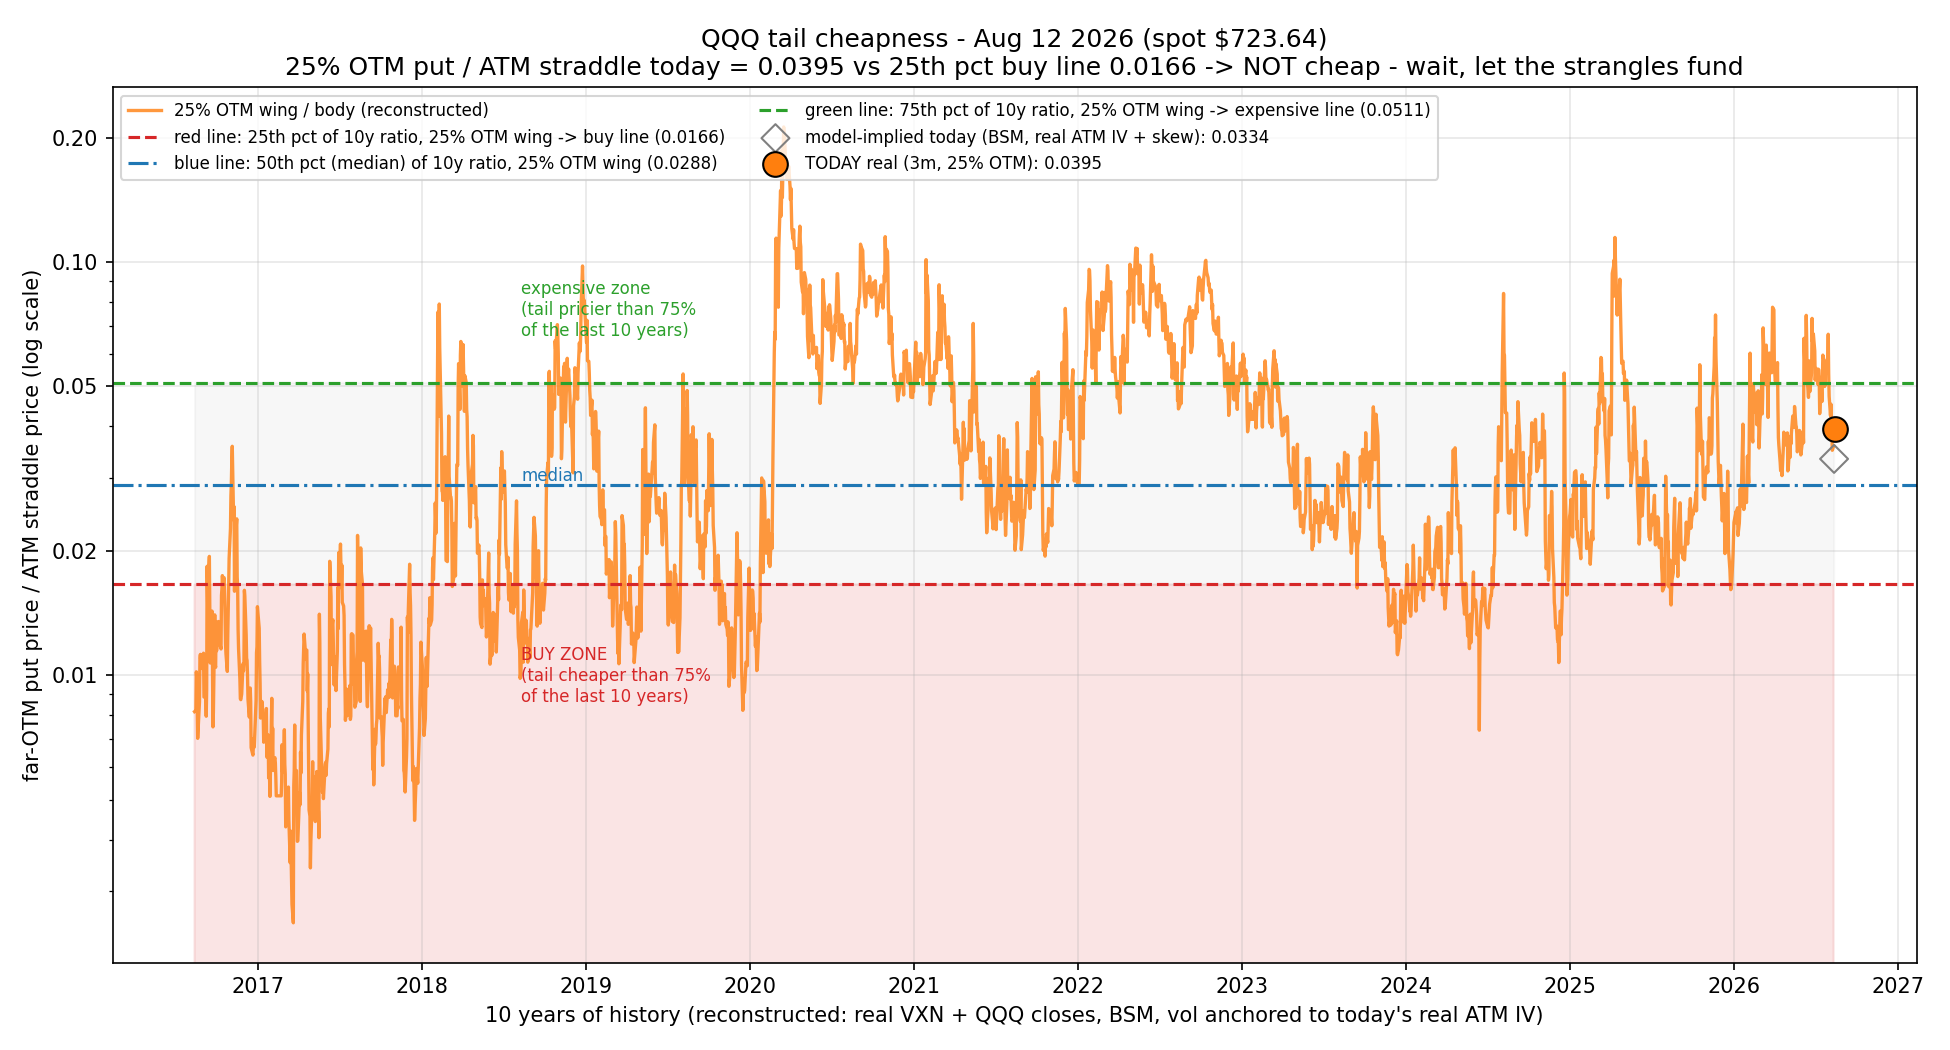
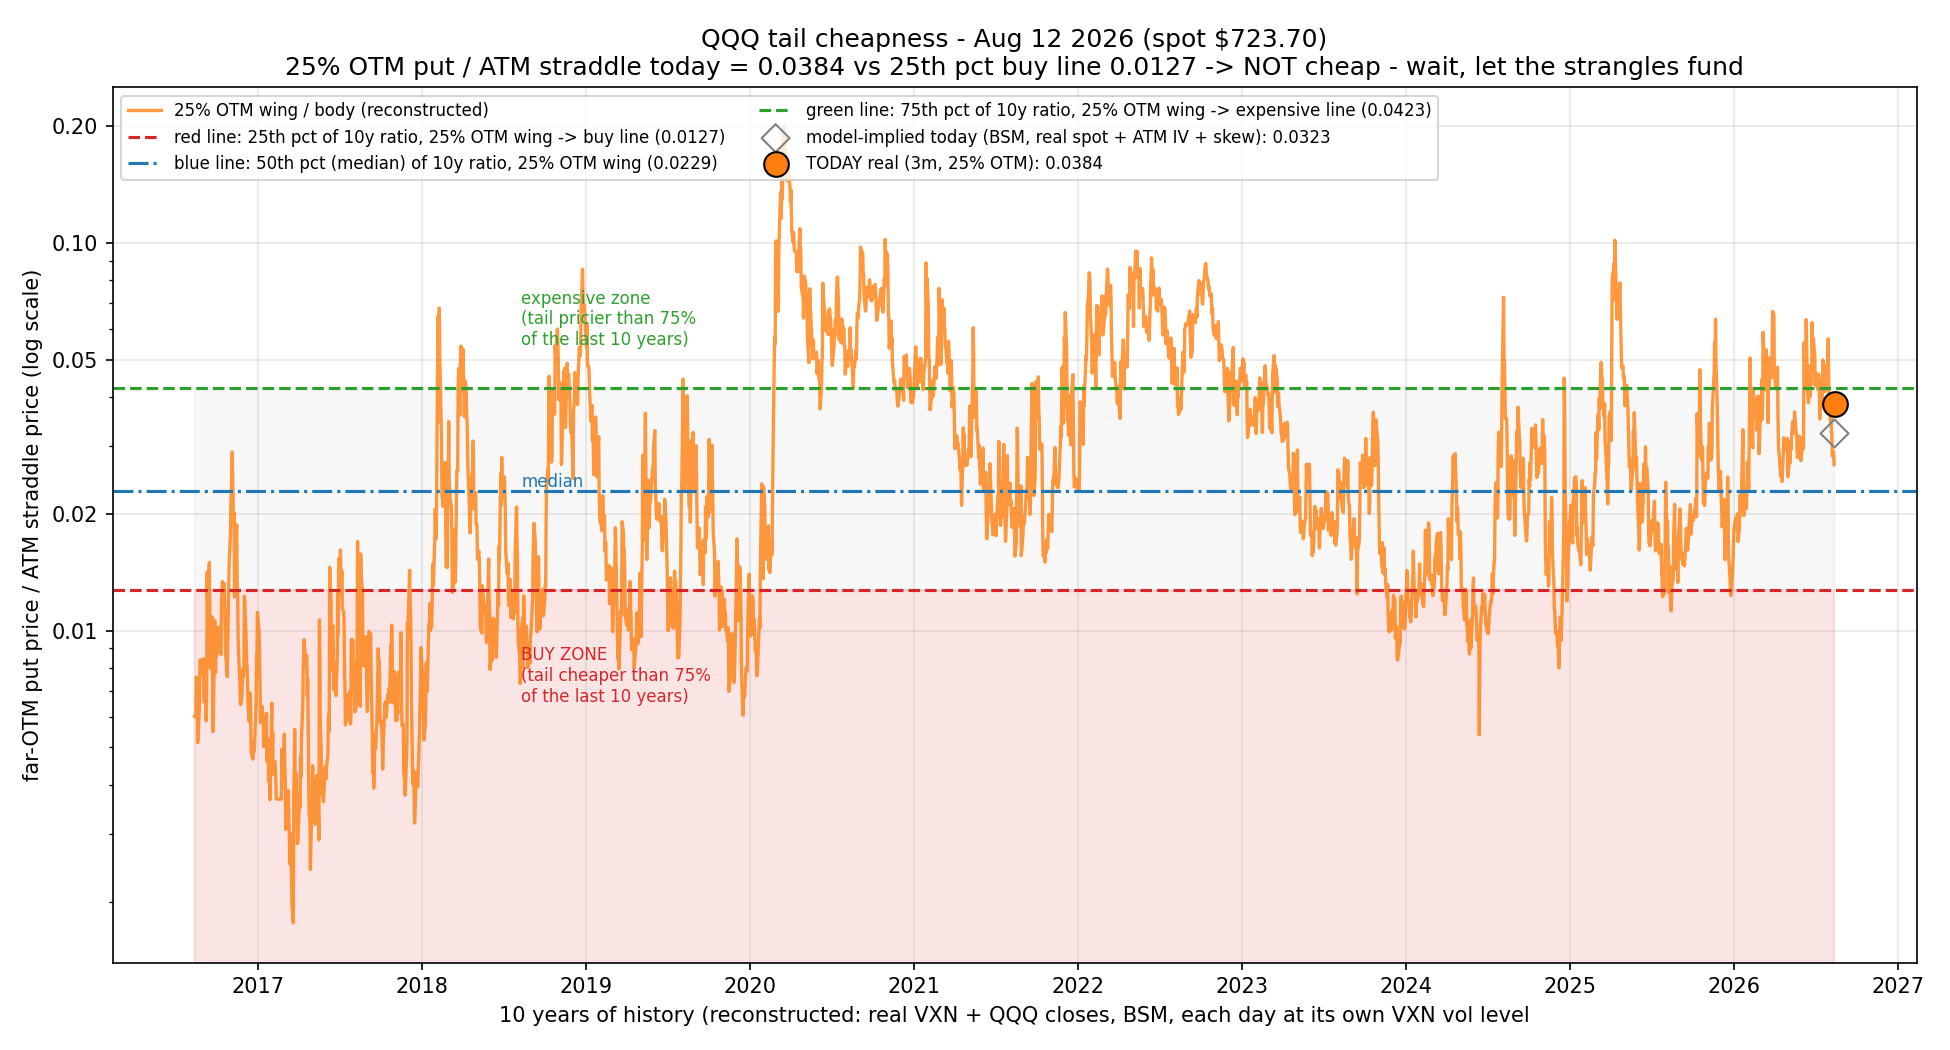
fux anchor circularirty

diff --git a/fentu/pricingservices/tail_plot.py b/fentu/pricingservices/tail_plot.py
@@ -13,17 +13,14 @@ Output: figures/tail_cheapness_<date>.png (named after today's date)
 
 Reconstruction assumptions (stated on the chart):
 - 10y history: wing/body ratio reconstructed from REAL VXN (Nasdaq-100 vol,
-  ^VXN) and REAL QQQ closes via BSM, with TODAY's real skew offsets held
-  constant and a flat term structure. The vol LEVEL is anchored to today's
-  real ATM IV (the market's vol premium) — NOT to today's wing ratio, so
-  today's real wing quote stays an independent, out-of-sample test point.
-- The tenor is the REAL option's actual calendar DTE (~90 days), so the
-  model prices the same maturity as the quotes it is compared against.
-- Today's dots: REAL mid-market quotes from the yfinance chain, compared
-  against the model-implied point at today's real ATM IV + skew offsets.
+  ^VXN) and REAL QQQ closes via BSM at EACH DAY's OWN VXN vol level,
+  with today's real skew offsets held constant and a flat term structure.
+- Today's dots: real mid-market quotes from the yfinance chain, compared
+against a model-implied point priced at today's real spot, ATM_IV and 
+skew offsets-the ONLY place today's vol level enters the chart.
 
-TOFIX:
-10year to 1999
+- TODO:
+historical span needs to extend from 10years to 1999
 """
 
 import logging
@@ -191,16 +188,16 @@ def historical_ratios(quotes, years=10):
     return ratios
 
 
-def wing_series(hist):
+def wing_series(ratios_by_maturity):
     """
     Every point is genuine history(each day's own VXN level)
     Today's real qutes stays out-of-sample by construction
     """
-    result = {
-        pct: [(d, r) for d, p_, r in hist["3m"] if p_ == pct and math.isfinite(r)]
-        for pct in WING_LEVELS
-    }
-    return result
+    series = {pct: [] for pct in WING_LEVELS}
+    for day, level, ratio in ratios_by_maturity["3m"]:
+        if level in series and math.isfinite(ratio):
+            series[level].append((day, ratio))
+    return series
 
 def model_today_ratio(quote):
     """model implied wing/body ratio at TODAY's real spot
@@ -227,7 +224,8 @@ def plot_tail_cheapness(save_path=None):
     quotes = fetch_today_quotes()
     _log_today_quotes(quotes)
     hist = historical_ratios(quotes)
-    series, model_today = split_terminal(hist)
+    series = wing_series(hist)
+    model_today = model_today_ratio(quotes["3m"])
     logger.info("series points per wing: %s", {pct: len(series[pct]) for pct in WING_LEVELS})
     today = date.today()
     save_path = save_path or _default_save_path(today)
@@ -275,7 +273,7 @@ def _default_save_path(today):
 
 def _log_decision(verdict, today_ratio, q25, model_today):
     logger.info(
-        "decision wing: q25 buy line=%.4f, model-implied today=%s, verdict=%s (today %.4f vs q25 %.4f)",
+        "decision wing: q25 buy line=%.4f, model-implied today=%.4f, verdict=%s (today %.4f vs q25 %.4f)",
         q25,
         model_today[DECISION_LEVEL],
         verdict,
@@ -331,16 +329,16 @@ def _plot_decision_annotations(ax, series):
 
 
 def _plot_today_marker(ax, today_ratio, model_today):
-    m_date, m_ratio = model_today[DECISION_LEVEL]
+    m_ratio = model_today[DECISION_LEVEL]
     ax.scatter(
-        [m_date],
+        [date.today()],
         [m_ratio],
         marker="D",
         s=90,
         facecolors="none",
         edgecolors="gray",
         zorder=4,
-        label=f"model-implied today (BSM, real ATM IV + skew): {m_ratio:.4f}",
+        label=f"model-implied today (BSM, real spot + ATM IV + skew): {m_ratio:.4f}",
     )
     ax.scatter(
         [date.today()],
@@ -364,7 +362,7 @@ def _decorate_axes(ax, quotes, today, today_ratio, q25, verdict):
         f"{int(DECISION_LEVEL*100)}% OTM put / ATM straddle today = {today_ratio:.4f} vs 25th pct buy line {q25:.4f} -> {verdict}"
     )
     ax.set_ylabel("far-OTM put price / ATM straddle price (log scale)")
-    ax.set_xlabel("10 years of history (reconstructed: real VXN + QQQ closes, BSM, vol anchored to today's real ATM IV)")
+    ax.set_xlabel("10 years of history (reconstructed: real VXN + QQQ closes, BSM, each day at its own VXN vol level")
     ax.set_yscale("log")
     ax.set_yticks([0.01, 0.02, 0.05, 0.1, 0.2])
     ax.get_yaxis().set_major_formatter(matplotlib.ticker.FormatStrFormatter("%.2f"))
